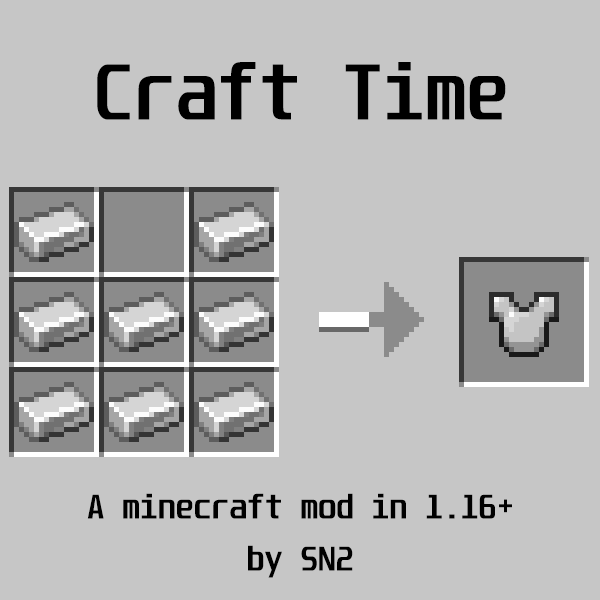
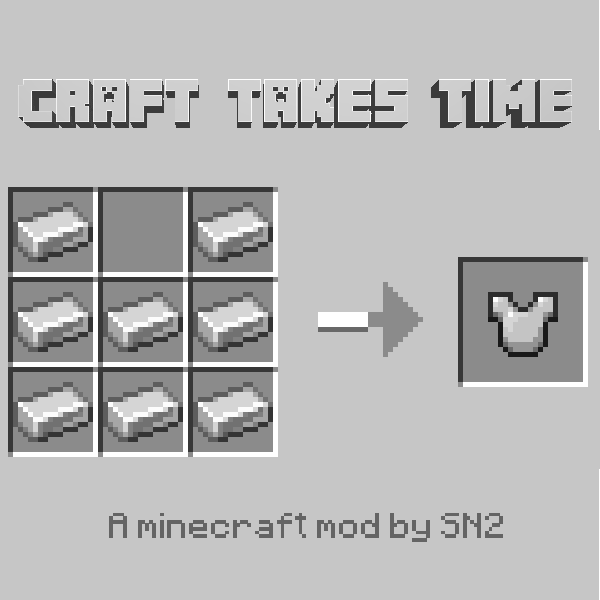
Update 0.4.3
1. Add crafting sound and finish_crafting sound.
2. A new mod icon

diff --git a/src/main/java/sn2/timecraft/mixin/MixinClientPlayerEntity.java b/src/main/java/sn2/timecraft/mixin/MixinClientPlayerEntity.java
@@ -4,12 +4,17 @@ import org.spongepowered.asm.mixin.Mixin;
 
 import com.mojang.authlib.GameProfile;
 
+import net.minecraft.client.MinecraftClient;
 import net.minecraft.client.network.AbstractClientPlayerEntity;
 import net.minecraft.client.network.ClientPlayerEntity;
 import net.minecraft.client.world.ClientWorld;
 import net.minecraft.item.ItemStack;
 import net.minecraft.item.Items;
+import net.minecraft.sound.SoundCategory;
 import sn2.timecraft.ITimeCraftPlayer;
+import sn2.timecraft.sound.CraftingTickableSound;
+import sn2.timecraft.sound.SoundEventRegistry;
+import sn2.timecraft.util.CraftingSpeedHelper;
 
 @Mixin(ClientPlayerEntity.class)
 public class MixinClientPlayerEntity extends AbstractClientPlayerEntity implements ITimeCraftPlayer {
@@ -60,8 +65,10 @@ public class MixinClientPlayerEntity extends AbstractClientPlayerEntity implemen
 
 	@Override
 	public void startCraftWithNewPeriod(float craft_period) {
+		this.craft_time = 0;
 		this.craft_period = craft_period;
 		this.is_crafting = true;
+		MinecraftClient.getInstance().getSoundManager().play(new CraftingTickableSound(this, this.getBlockPos()));
 	}
 	
 	@Override
@@ -76,10 +83,11 @@ public class MixinClientPlayerEntity extends AbstractClientPlayerEntity implemen
 				}
 			}
 			if (this.getCraftTime() < this.getCraftPeriod()) {
-				this.craft_time += 1F + 0.02F * Math.min(this.experienceLevel, 200);
+				this.craft_time += CraftingSpeedHelper.getCraftingSpeed(this);
 			}
-			if (this.getCraftTime() >= this.getCraftPeriod()) {
-				this.craft_time = 0F;
+			else if (this.getCraftTime() >= this.getCraftPeriod()) {
+				this.playSound(SoundEventRegistry.finishSound, SoundCategory.PLAYERS, 0.1F, 1f);
+				this.startCraftWithNewPeriod(craft_period);
 				return true;
 			}
 		}

diff --git a/src/main/java/sn2/timecraft/sound/CraftingTickableSound.java b/src/main/java/sn2/timecraft/sound/CraftingTickableSound.java
@@ -1,0 +1,35 @@
+package sn2.timecraft.sound;
+
+import net.minecraft.client.sound.MovingSoundInstance;
+import net.minecraft.sound.SoundCategory;
+import net.minecraft.util.math.BlockPos;
+import sn2.timecraft.ITimeCraftPlayer;
+
+public class CraftingTickableSound extends MovingSoundInstance {
+	   private final ITimeCraftPlayer player;
+
+	   public CraftingTickableSound(ITimeCraftPlayer player, BlockPos pos) {
+	      super(SoundEventRegistry.craftingSound, SoundCategory.PLAYERS);
+	      this.player = player;
+	      this.repeat = true;
+	      this.repeatDelay = 3;
+	      this.volume = 1.0F;
+	      this.x = (double)((float)pos.getX());
+	      this.y = (double)((float)pos.getY());
+	      this.z = (double)((float)pos.getZ());
+	   }
+
+	   public boolean canPlay() {
+	      return this.player.isCrafting();
+	   }
+
+	   public boolean shouldAlwaysPlay() {
+	      return true;
+	   }
+
+	   public void tick() {
+		   if (this.player.getCraftTime() >= this.player.getCraftPeriod()) {
+			  this.setDone();
+		   }
+	   }
+}

diff --git a/src/main/java/sn2/timecraft/TimeCraftServer.java b/src/main/java/sn2/timecraft/TimeCraftServer.java
@@ -5,7 +5,9 @@ import java.io.FileInputStream;
 
 import net.fabricmc.api.ModInitializer;
 import net.fabricmc.loader.api.FabricLoader;
+import net.minecraft.util.registry.Registry;
 import sn2.timecraft.config.ConfigLoader;
+import sn2.timecraft.sound.SoundEventRegistry;
 
 public class TimeCraftServer implements ModInitializer {
 
@@ -26,6 +28,8 @@ public class TimeCraftServer implements ModInitializer {
 			// TODO Auto-generated catch block
 			e.printStackTrace();
 		}
+		Registry.register(Registry.SOUND_EVENT, SoundEventRegistry.craftingSoundID, SoundEventRegistry.craftingSound);
+		Registry.register(Registry.SOUND_EVENT, SoundEventRegistry.finishSoundID, SoundEventRegistry.finishSound);
 	}
 
 }

diff --git a/src/main/java/sn2/timecraft/sound/SoundEventRegistry.java b/src/main/java/sn2/timecraft/sound/SoundEventRegistry.java
@@ -1,0 +1,13 @@
+package sn2.timecraft.sound;
+
+import net.minecraft.sound.SoundEvent;
+import net.minecraft.util.Identifier;
+
+public class SoundEventRegistry {
+	
+	public static final Identifier craftingSoundID = new Identifier("timecraft:crafting");
+    public static SoundEvent craftingSound = new SoundEvent(craftingSoundID);
+	public static final Identifier finishSoundID = new Identifier("timecraft:finish");
+    public static SoundEvent finishSound = new SoundEvent(finishSoundID);
+    
+}

diff --git a/src/main/java/sn2/timecraft/mixin/MixinCraftingScreen.java b/src/main/java/sn2/timecraft/mixin/MixinCraftingScreen.java
@@ -73,8 +73,7 @@ public abstract class MixinCraftingScreen extends HandledScreen<CraftingScreenHa
 		}
 		if (invSlot == 0) {
 			if (!player.isCrafting()) {
-				player.setCraftPeriod(CraftingDifficultyHelper.getCraftingDifficultyFromMatrix(this.handler, true));
-				player.setCrafting(true);
+				player.startCraftWithNewPeriod(CraftingDifficultyHelper.getCraftingDifficultyFromMatrix(this.handler, true));
 			}
 			info.cancel();
 		}

diff --git a/src/main/java/sn2/timecraft/util/CraftingSpeedHelper.java b/src/main/java/sn2/timecraft/util/CraftingSpeedHelper.java
@@ -1,0 +1,14 @@
+package sn2.timecraft.util;
+
+import net.minecraft.entity.player.PlayerEntity;
+
+public class CraftingSpeedHelper {
+	
+	
+	public static float getCraftingSpeed(PlayerEntity player) {
+		float speed = 1F;
+		speed += 0.02F * Math.min(200, player.experienceLevel);
+		return speed;
+	}
+	
+}
